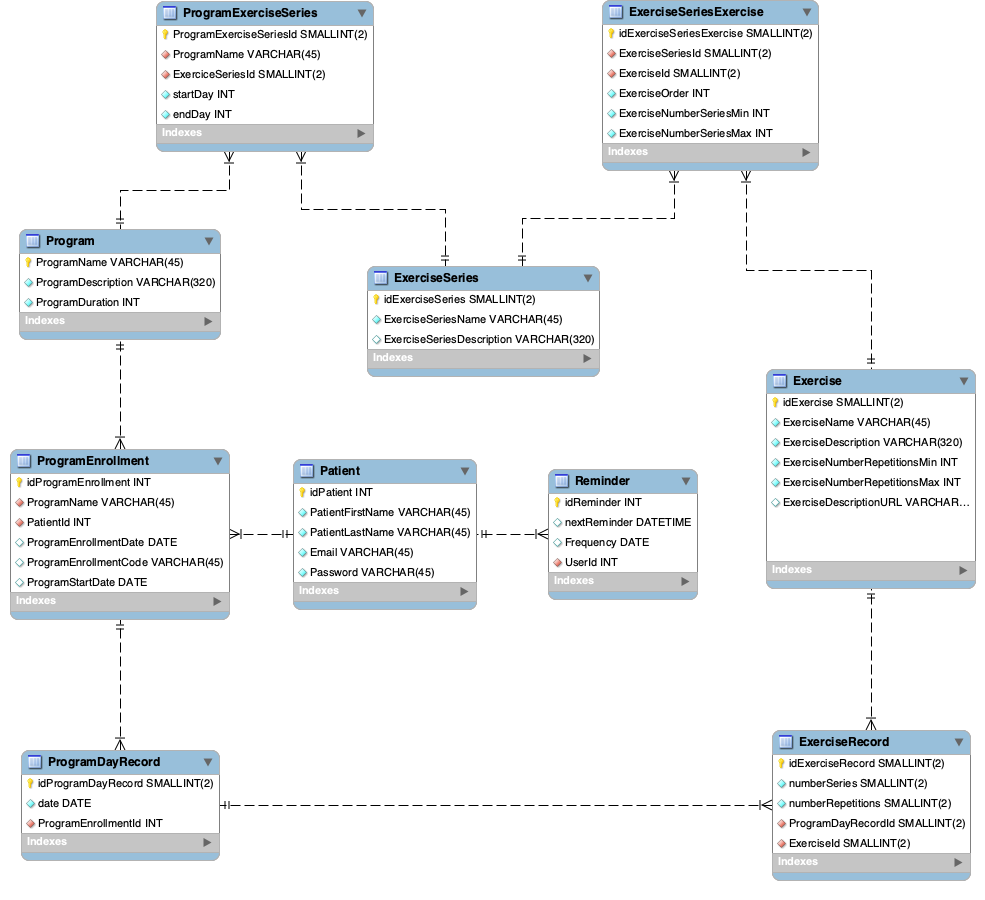
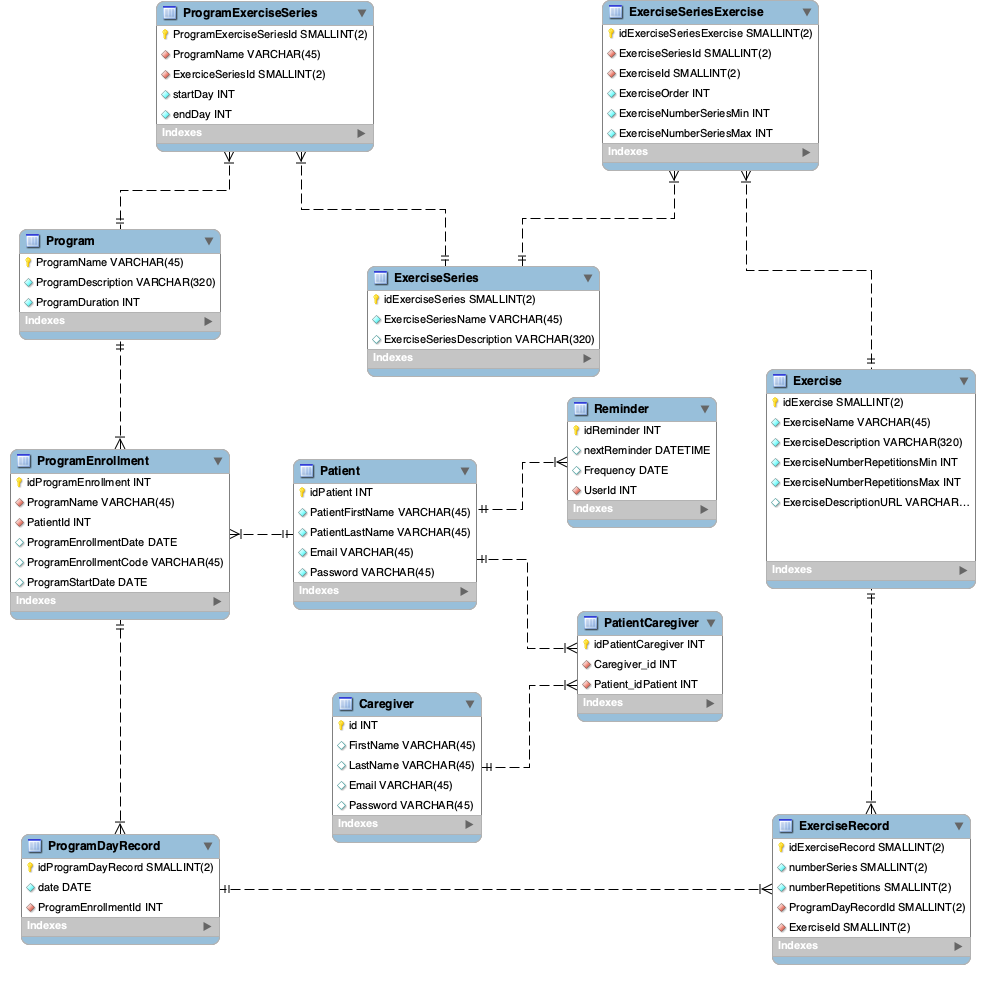
Inscription pour les proches aidants fonctionnelle

diff --git a/server/src/controllers/authController.ts b/server/src/controllers/authController.ts
@@ -1,40 +1,46 @@
 import { Request, Response } from 'express';
-import { validationResult } from 'express-validator';
 import bcrypt from 'bcryptjs';
 import jwt from 'jsonwebtoken';
 import Patient from '../models/Patient';
 import { JwtPayload } from '../types/jwtTypes';
 import * as dotenv from 'dotenv';
 import ProgramEnrollment from '../models/ProgramEnrollment';
+import Caregiver from '../models/Caregiver';
+import PatientCaregiver from '../models/PatientCaregiver';
 
 dotenv.config({ path: './src/config/config.env' });
 
 export default class AuthController {
   static register = async (req: Request, res: Response) => {
     try {
-      const { name, familyName, email, password } = req.body;
+        const { name, familyName, email, password, idPatients } = req.body;
 
-      const errors = validationResult(req);
-      if (!errors.isEmpty()) {
-        return res.status(422).json({ errors: errors.array() });
-      }
+        const hashedPassword = await hashPassword(password);
 
-      const existingPatient = await Patient.findOne({ where: { email } });
-      if (existingPatient) {
-        return res.status(400).json({ msg: 'Email already registered' });
-      }
+        // Create the user (Patient or Caregiver)
+        if (idPatients){
+          const existingCaregiver = await Caregiver.findOne({ where: { email } });
+          if (existingCaregiver) {
+            return res.status(400).json({ msg: 'Email already registered' });
+          }
+          const caregiver = await createCaregiver(name, familyName, email, hashedPassword, idPatients);
+          const token = generateJwtToken(caregiver);
+          return res.json({ token });
+        }
+        else{
+          const existingPatient = await Patient.findOne({ where: { email } });
+          if (existingPatient) {
+            return res.status(400).json({ msg: 'Email already registered' });
+          }
+          const patient = await createPatient(name, familyName, email, hashedPassword);
+          const token = generateJwtToken(patient);
 
-      const hashedPassword = await hashPassword(password);
-
-      const newPatient = await createPatient(name, familyName, email, hashedPassword);
-
-      const token = generateJwtToken(newPatient);
-
-      res.json({ token });
+          return res.json({ token });
+        }
     } catch (err: any) {
-      res.status(500).send('Server Error');
+      return res.status(500).send('Server Error');
     }
-  };
+  }
 
   static login = async (req: Request, res: Response) => {
     try {
@@ -54,9 +60,9 @@ export default class AuthController {
 
       const token = generateJwtToken(patient);
 
-      res.json({ token });
+      return res.json({ token });
     } catch (err: any) {
-      res.status(500).send('Server Error');
+      return res.status(500).send('Server Error');
     }
   }
 
@@ -71,13 +77,13 @@ export default class AuthController {
       const jwtSecret = process.env.JWT_SECRET as string;
       const decoded = jwt.verify(token, jwtSecret) as JwtPayload;
   
-      if (!decoded.patient){
+      if (!decoded.user){
         return res.status(403).json({ msg: 'Missing program name' });
       }
 
       return res.status(200).json({ msg: 'token is valid'});
     } catch (err: any) {
-      res.status(500).send('Server Error');
+      return res.status(500).send('Server Error');
     }
   }
 
@@ -93,11 +99,11 @@ export default class AuthController {
 
       const patient = await getPatientFromToken(token);
 
-      const ProgramEnrollment = await createProgramEnrollment(patient.idPatient, programName);
+      await createProgramEnrollment(patient.idPatient, programName);
       
-      res.status(200).json({ msg: 'Program changed' });
+      return res.status(200).json({ msg: 'Program changed' });
     } catch (err: any){
-      res.status(500).send('Server Error');
+      return res.status(500).send('Server Error');
     }
   }
 }
@@ -106,7 +112,7 @@ async function getPatientFromToken(token: string): Promise<Patient> {
   const jwtSecret = process.env.JWT_SECRET as string;
   const decoded = jwt.verify(token, jwtSecret) as JwtPayload;
 
-  const patient = await Patient.findByPk(decoded.patient.id);
+  const patient = await Patient.findByPk(decoded.user.id);
   if (!patient) {
     throw new Error('Patient not found');
   }
@@ -135,15 +141,51 @@ async function createPatient(firstName: string, lastName: string, email: string,
   });
 }
 
-function generateJwtToken(patient: Patient) {
+function generateJwtToken(user: Patient | Caregiver) {
+  const idProp = getPropertyByString(user, "id");
+  
   const payload: JwtPayload = {
-    patient: {
-      id: patient.idPatient,
-      firstName: patient.PatientFirstName,
-      lastName: patient.PatientLastName,
-      email: patient.Email,
+    user: {
+      id: getPropertyByString(user, "id"),
+      firstName: getPropertyByString(user, "FirstName"),
+      lastName: getPropertyByString(user, "LastName"),
+      email: user.Email,
     },
   };
   const jwtSecret = process.env.JWT_SECRET as string;
   return jwt.sign(payload, jwtSecret, { expiresIn: process.env.TOKEN_EXPIRE_TIME });
 }
+
+function getPropertyByString(obj: any, searchString: string): any | undefined {
+  if (obj === null || obj === undefined || !obj.dataValues) {
+    return undefined;
+  }
+
+  const keys = Object.keys(obj.dataValues);
+
+  for (const key of keys) {
+    if (obj.dataValues.hasOwnProperty(key) && key.includes(searchString)) {
+      return obj.dataValues[key];
+    }
+  }
+  return undefined;
+}
+
+async function createCaregiver(firstName: string, lastName: string, email: string, password: string, idPatients: any): Promise<Caregiver> {
+  
+  const caregiver = await Caregiver.create({
+    FirstName: firstName,
+    LastName: lastName,
+    Email: email,
+    Password: password,
+  });
+
+  if (idPatients.length > 0) {
+    const patientIds = idPatients.map((id: number) => ({ patient_id: id, caregiver_id:  getPropertyByString(caregiver, "id") }));
+    await PatientCaregiver.bulkCreate(patientIds);
+    console.log(patientIds)
+  }
+
+  return caregiver;
+}
+

diff --git a/front-end/screens/Register.js b/front-end/screens/Register.js
@@ -1,5 +1,5 @@
 import React, { useState } from 'react';
-import { View, TouchableOpacity, Image, TextInput, StyleSheet } from 'react-native';
+import { View, TouchableOpacity, Image, TextInput, StyleSheet, CheckBox } from 'react-native';
 import AsyncStorage from '@react-native-async-storage/async-storage';
 import { Block, Text } from "galio-framework";
 import { Icon } from '../components';
@@ -12,6 +12,8 @@ export default Register = ({ navigation }) => {
     const [email, setEmail] = useState('');
     const [password, setPassword] = useState('');
     const [confirmPassword, setConfirmPassowrd] = useState('');
+    const [idPatients, setIdPatients] = useState('');
+    const [isProcheAidant, setIsProcheAidant] = useState('');
     const [errors, setErrors] = useState({}); 
   
     const validateForm = () => { 
@@ -42,7 +44,10 @@ export default Register = ({ navigation }) => {
             familyName: familyName,
             email: email,
             password: password,
+            idPatients: isProcheAidant ? idPatients.split(',').map(Number) : null,
         };
+
+        console.log(requestBody);
 
         fetch(`${apiUrl}/api/auth/register`, {
             method: 'POST',
@@ -63,6 +68,9 @@ export default Register = ({ navigation }) => {
                 throw new error('missing token');
             }
             await AsyncStorage.setItem('userToken', response.token);
+            // isProcheAidant ? 
+            //     navigation.navigate('App') : 
+            //     navigation.navigate('ProgramChange');
             navigation.navigate('App');
         })
         .catch((error) => {
@@ -165,6 +173,32 @@ export default Register = ({ navigation }) => {
                     onChangeText={setConfirmPassowrd}
                     inputType="password" />
                 </View>
+
+                <View style={styles.container}>
+                    <CheckBox
+                    value={isProcheAidant}
+                    onValueChange={(newValue) => setIsProcheAidant(newValue)}
+                    />
+                    <Text>Je suis un proche aidant</Text>
+                </View>
+
+
+                {isProcheAidant && (
+                    <View style={styles.container}>
+                    <Icon
+                        size={16}
+                        name="body-outline"
+                        family="ionicon"
+                        color={"black"}
+                    />
+                    <TextInput
+                        placeholder='IDs des patients (séparés par des virgules)'
+                        value={idPatients}
+                        onChangeText={setIdPatients}
+                    />
+                    </View>
+                )}
+
                 <TouchableOpacity 
                 style={styles.button} 
                 onPress={handleRegisteration} 

diff --git a/server/src/models/PatientCaregiver.ts b/server/src/models/PatientCaregiver.ts
@@ -1,0 +1,41 @@
+import { Model, DataTypes } from 'sequelize';
+import { sequelize } from '../db/database';
+import Patient from './Patient';
+import CareGiver from './Caregiver';
+
+class PatientCaregiver extends Model {
+    public idPatientCaregiver!: number;
+    public patient_id!: number;
+    public caregiver_id!: number;
+}
+
+PatientCaregiver.init(
+    {
+        idPatientCareGiver: {
+            type: DataTypes.INTEGER,
+            autoIncrement: true,
+            primaryKey: true,
+        },
+        patient_id: {
+          type: DataTypes.INTEGER,
+          references: {
+              model: 'Patient', // Replace with the actual table name of Patient
+              key: 'id', // Replace with the actual primary key of Patient
+          },
+      },
+      caregiver_id: {
+          type: DataTypes.INTEGER,
+          references: {
+              model: 'Caregiver', // Replace with the actual table name of CareGiver
+              key: 'id', // Replace with the actual primary key of CareGiver
+          },
+      },
+    },
+    {
+      tableName: 'PatientCaregiver',
+      sequelize: sequelize,
+      timestamps: false
+    }
+  );
+
+export default PatientCaregiver;

diff --git a/server/src/models/Caregiver.ts b/server/src/models/Caregiver.ts
@@ -1,0 +1,43 @@
+import { DataTypes, Model } from 'sequelize';
+import { sequelize } from '../db/database';
+
+class Caregiver extends Model {
+    public id!: number;
+    public FirstName!: string;
+    public LastName!: string;
+    public Email!: string;
+    public Password!: string;
+}
+
+Caregiver.init(
+  {
+    id: {
+      type: DataTypes.INTEGER,
+      autoIncrement: true,
+      primaryKey: true,
+    },
+    FirstName: {
+      type: DataTypes.STRING,
+      allowNull: false,
+    },
+    LastName: {
+      type: DataTypes.STRING,
+      allowNull: false,
+    },
+    Email: {
+      type: DataTypes.STRING,
+      allowNull: false,
+      unique: true,
+    },
+    Password: {
+      type: DataTypes.STRING,
+      allowNull: false,
+    },
+  },
+  {
+    tableName: 'Caregiver',
+    sequelize: sequelize,
+  }
+);
+
+export default Caregiver;

diff --git a/server/src/models/Associations.ts b/server/src/models/Associations.ts
@@ -8,8 +8,19 @@ import Patient from './Patient';
 import ProgramEnrollment from './ProgramEnrollment';
 import ProgramExerciseSeries from './ProgramExerciseSeries';
 import Reminder from './Reminder';
+import Caregiver from './Caregiver';
+import PatientCaregiver from './PatientCaregiver';
 
 export function createAssociations(){
+    Patient.belongsToMany(Caregiver, {
+        through: PatientCaregiver,
+        foreignKey: 'patient_id',
+      });
+      Caregiver.belongsToMany(Patient, {
+        through: PatientCaregiver,
+        foreignKey: 'caregiver_id',
+      });
+
     Program.hasMany(ProgramExerciseSeries, {
         foreignKey: 'ProgramName',
         as: 'ExerciseSeries',

diff --git a/server/src/types/jwtTypes.ts b/server/src/types/jwtTypes.ts
@@ -1,5 +1,5 @@
 export interface JwtPayload {
-    patient: {
+    user: {
       id: number;
       firstName: string;
       lastName: string;
